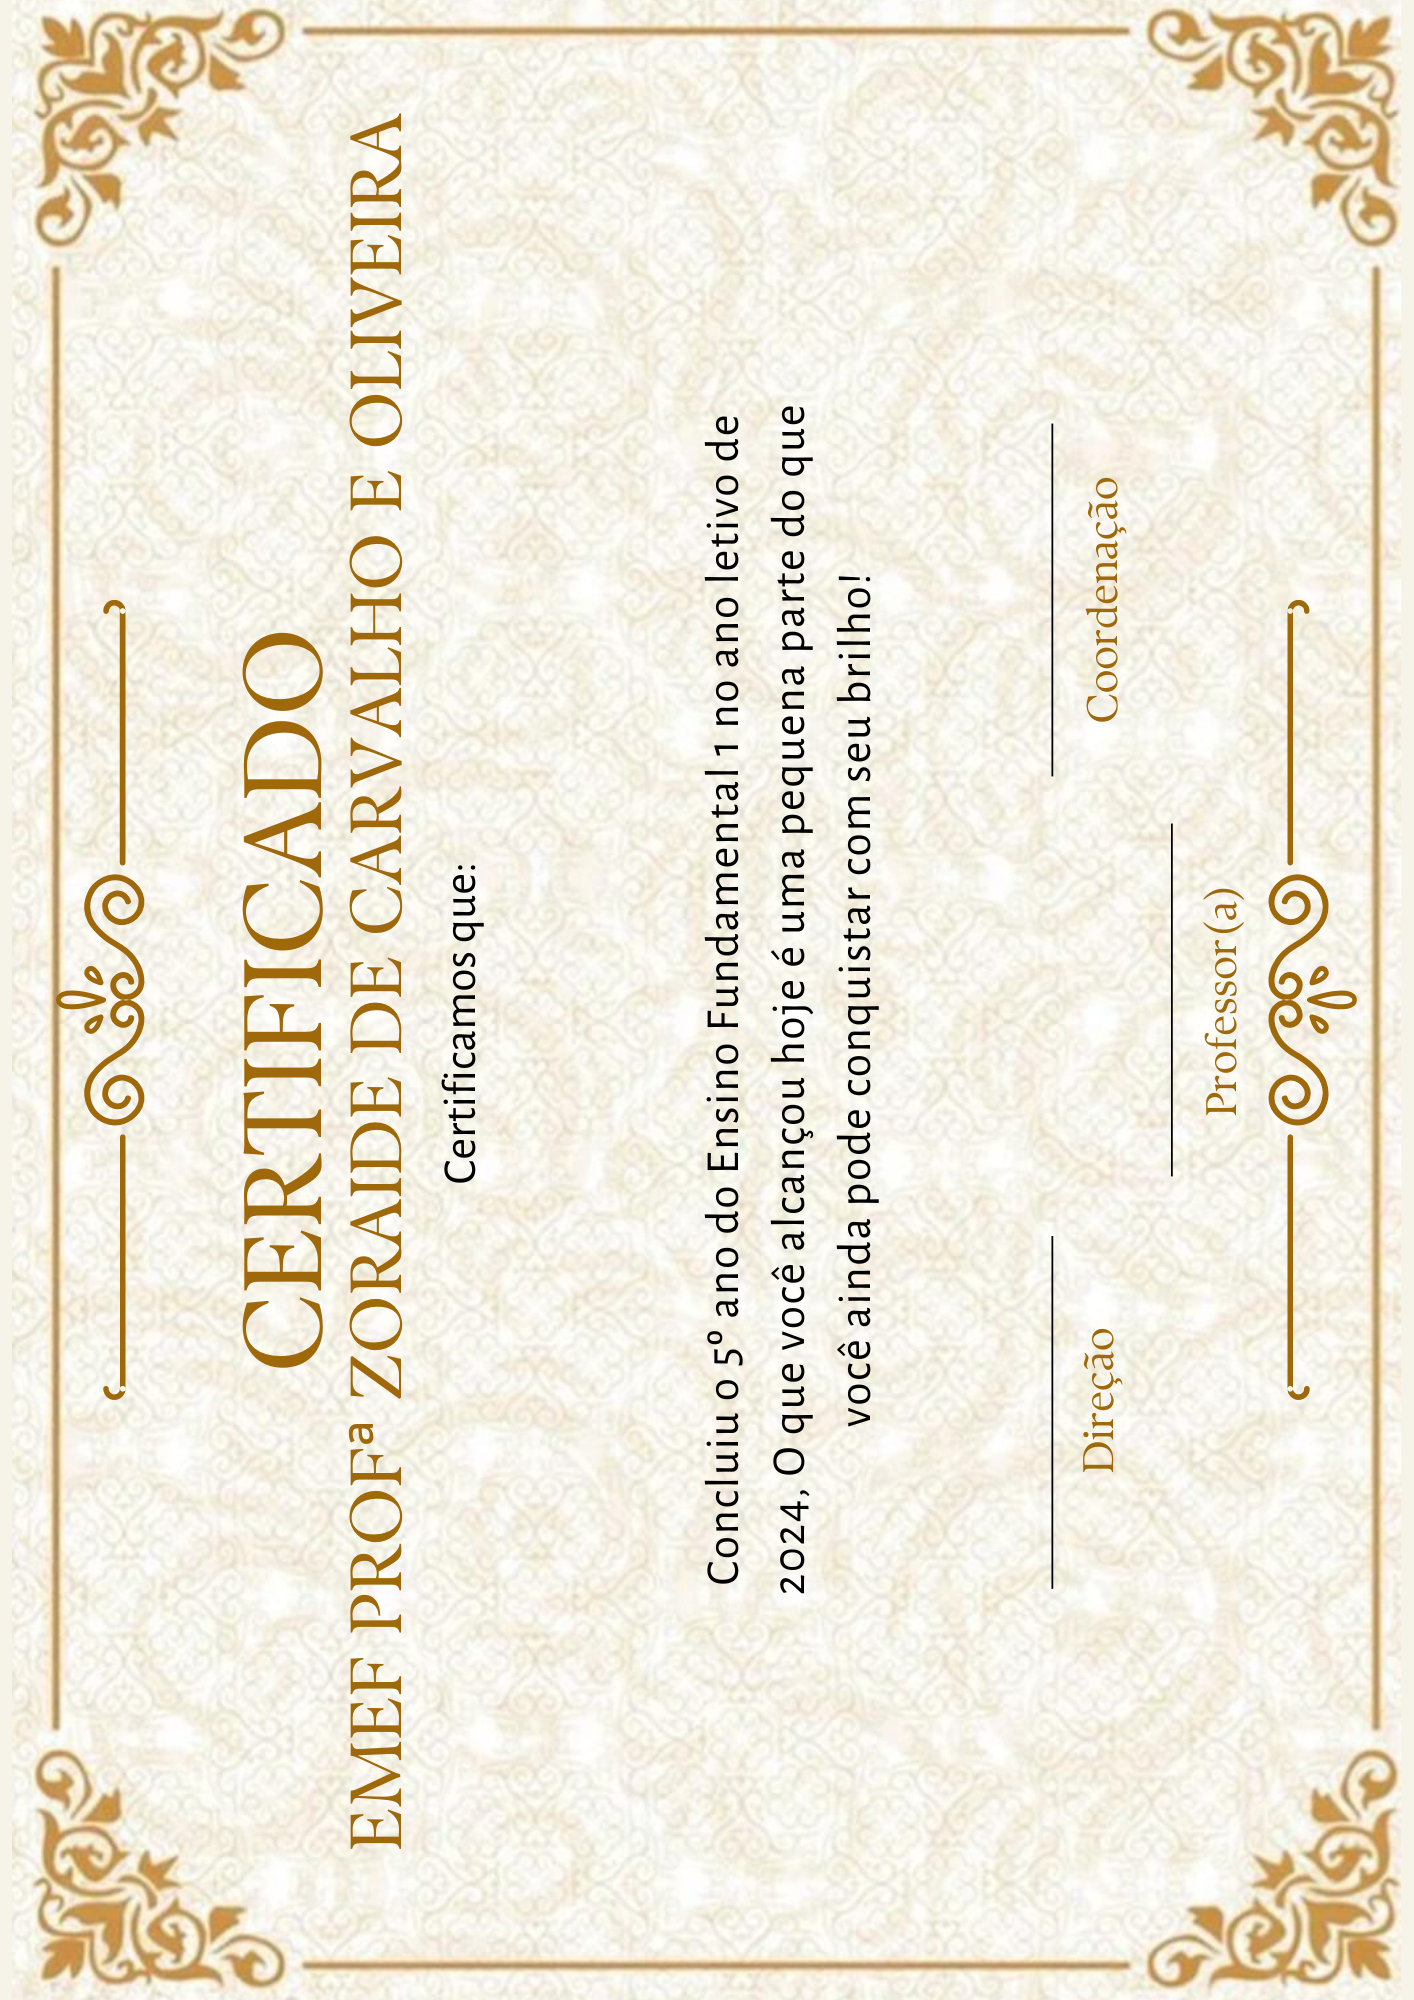
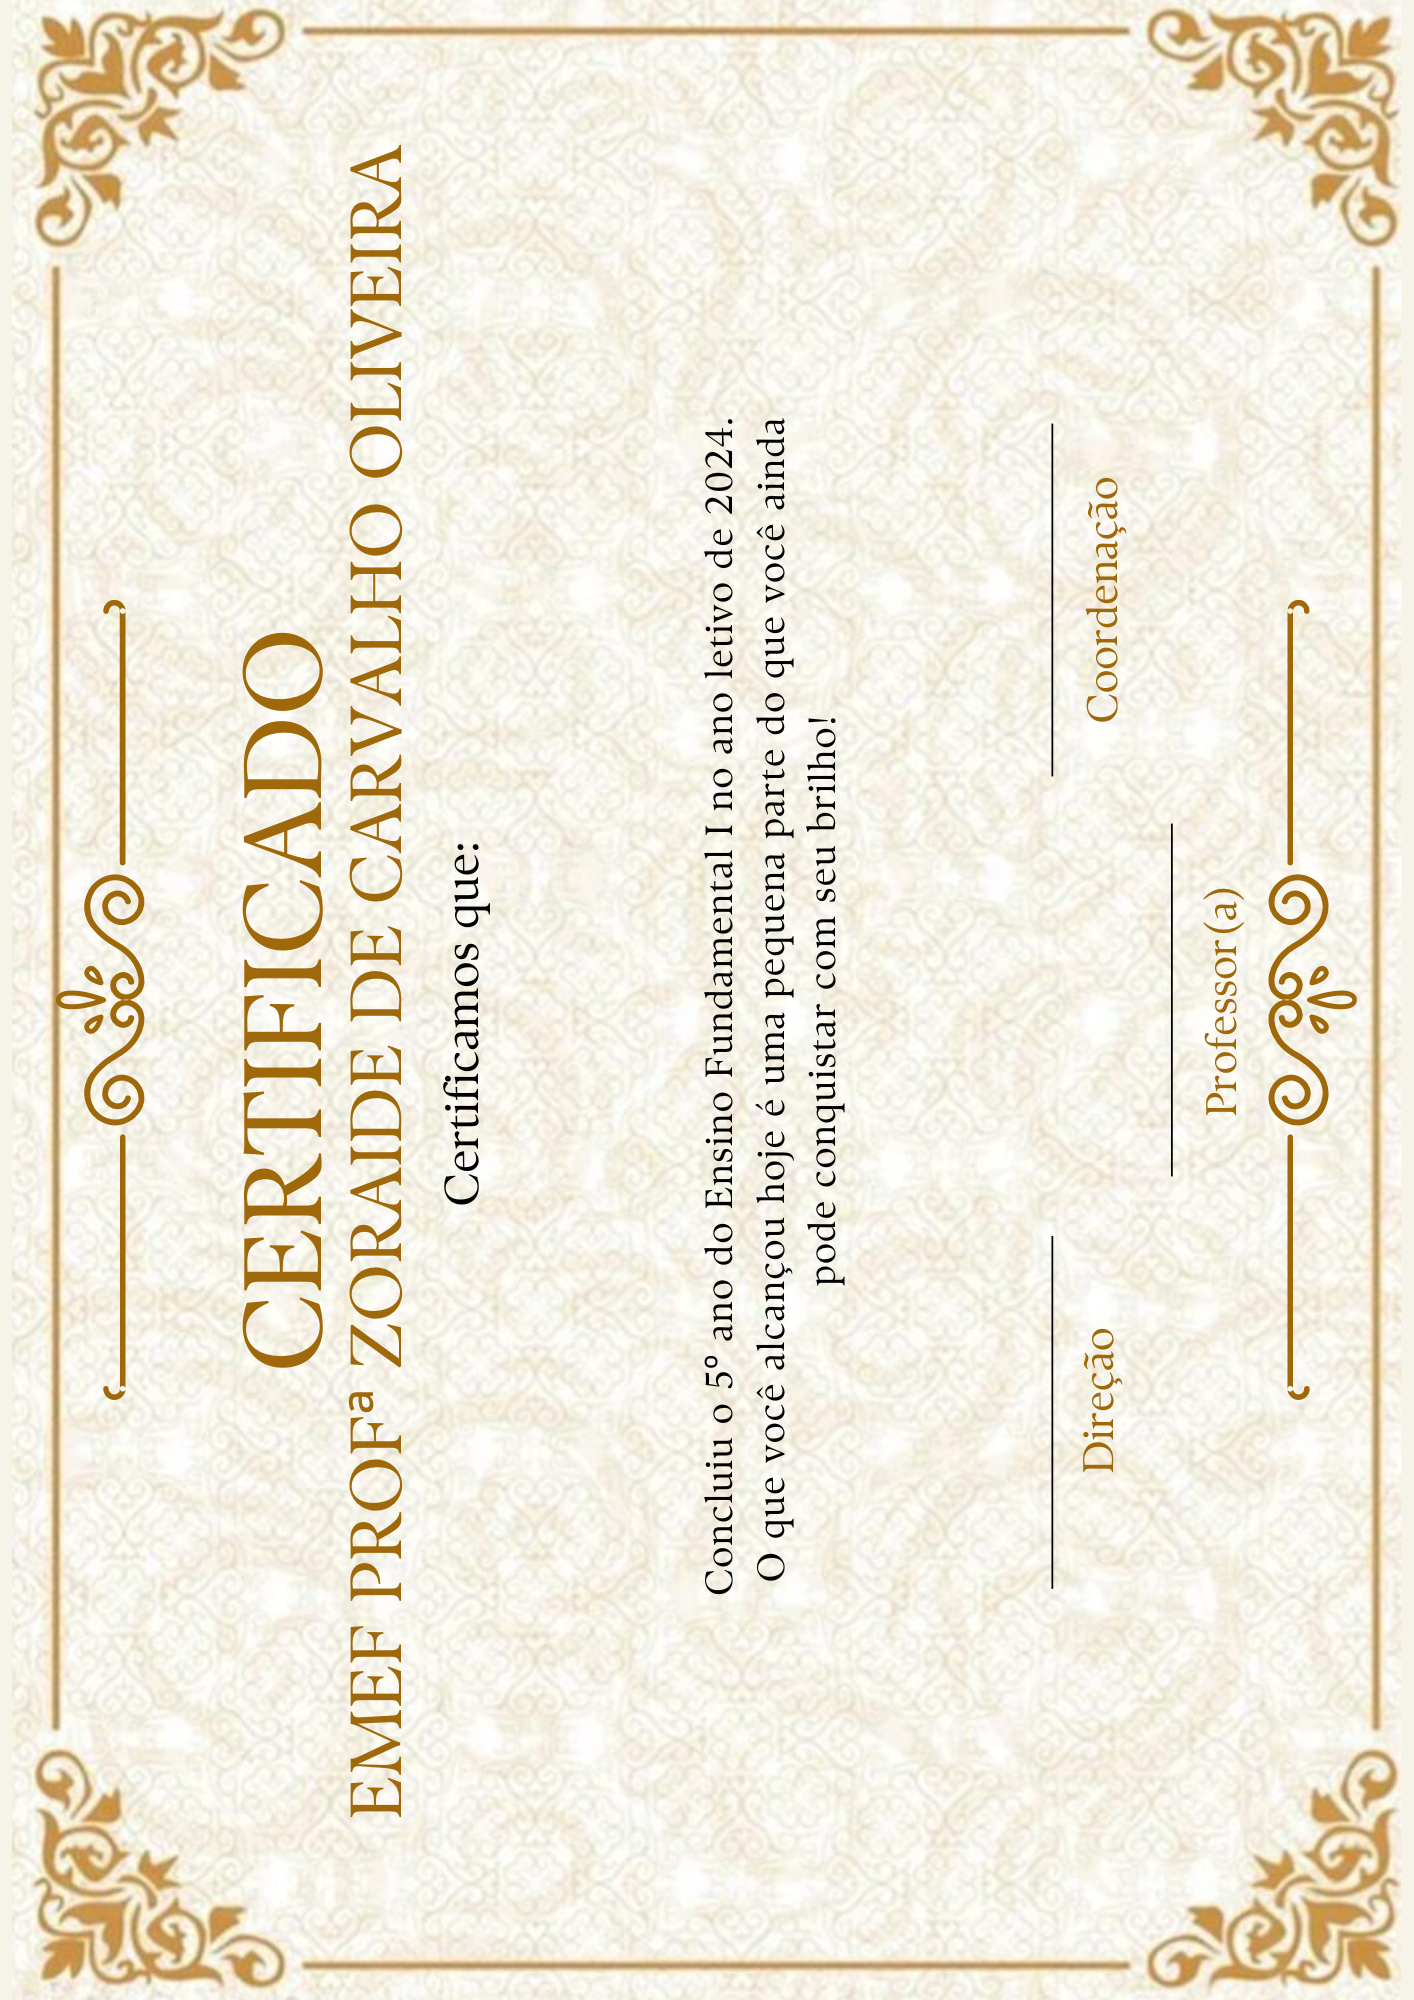
melhorias no design do doploma

Changed region(s): [[0.4979, 0.186, 0.6223, 0.806], [0.2489, 0.062, 0.2801, 0.93], [0.3112, 0.434, 0.3423, 0.62]]

diff --git a/base/footer.html b/base/footer.html
@@ -79,11 +79,11 @@ border-spacing: 0;
     
 }
 .nome{
-    font-size: 80px;
+    font-size: 94px;
     transform: rotate(270deg);
     text-align: center;
-    margin-right: 190px;
-    margin-bottom: 250px;
+    /* margin-bottom: 250px; */
+    margin-right: 210px;
     font-family: "edwarian";
     color: #9f680a;
 }
